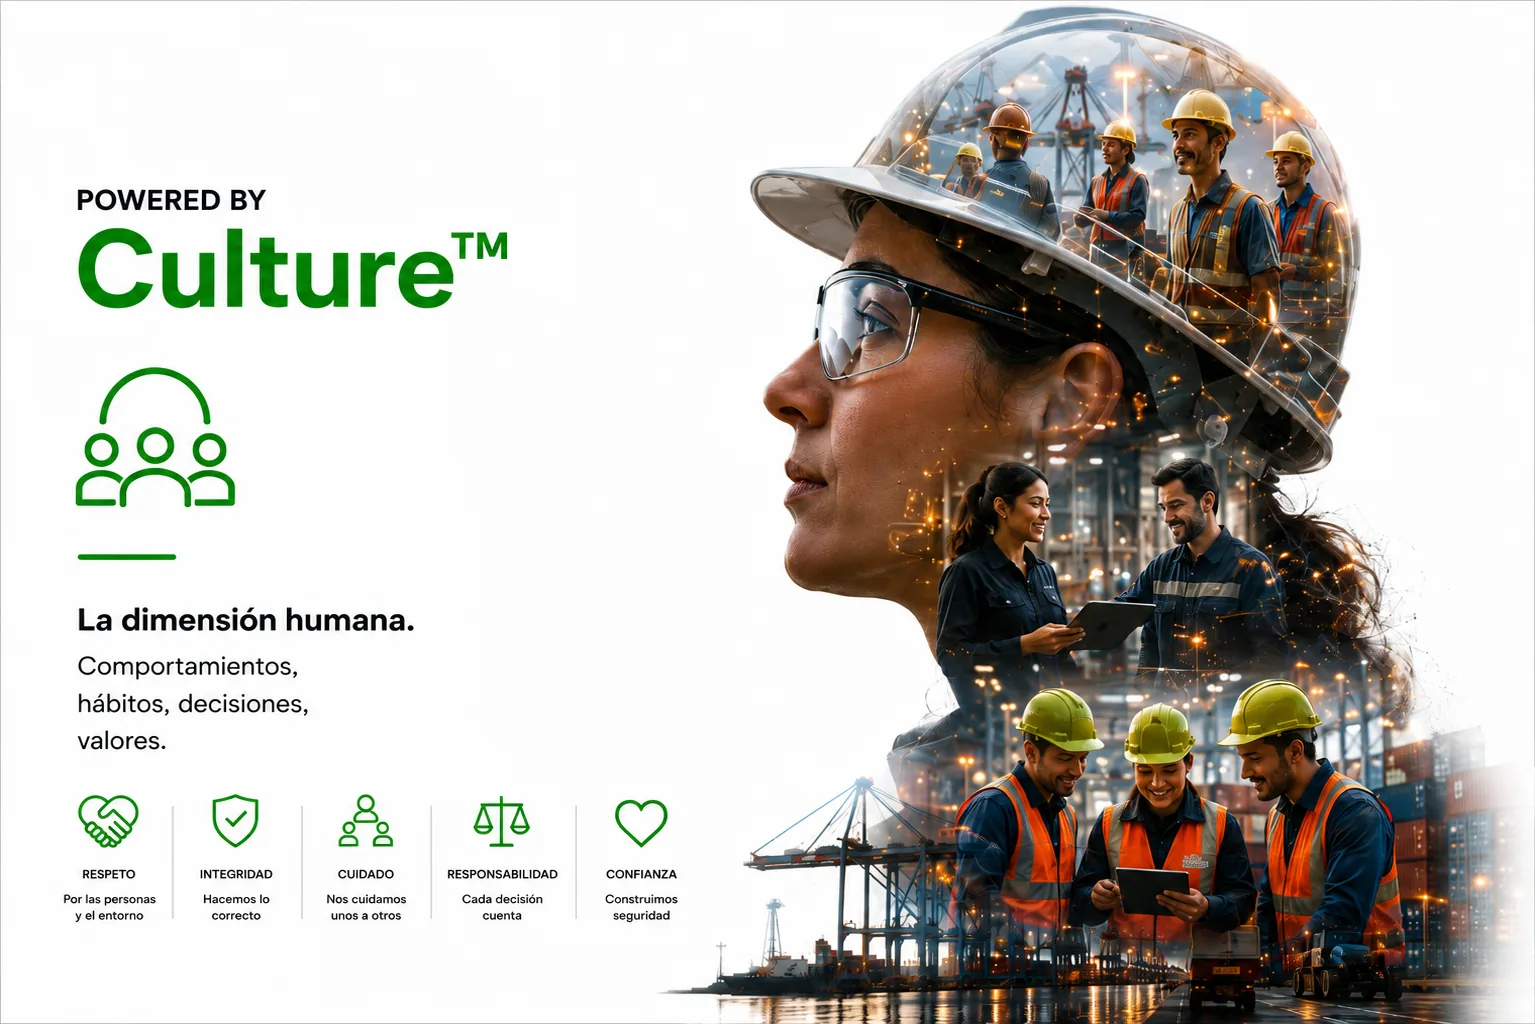
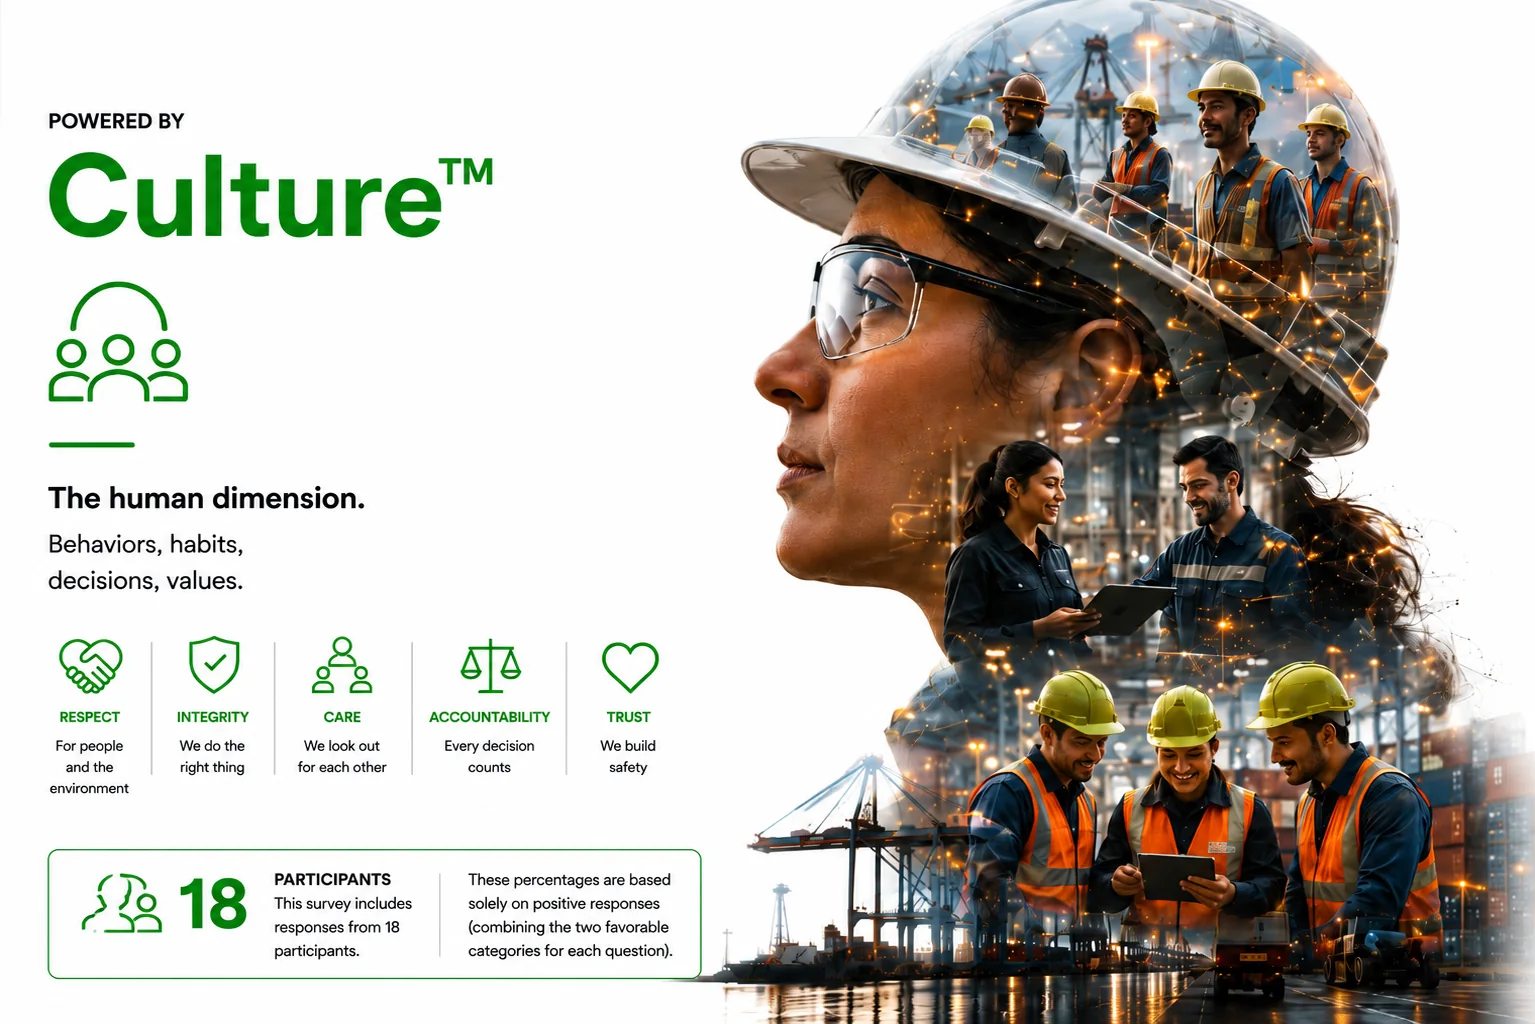
Add Culture and Prevent executive plate viewers

diff --git a/styles.css b/styles.css
@@ -2920,13 +2920,30 @@ img {
   margin-top: 24px;
 }
 
-.executive-dimension-line strong {
+.executive-dimension-line strong,
+.executive-dimension-line button {
   padding: 8px 11px;
   border: 1px solid rgba(255, 106, 19, 0.38);
   border-radius: 4px;
   color: #ffd0b5;
   background: rgba(255, 106, 19, 0.08);
   font-size: 0.72rem;
+  font-weight: 800;
+}
+
+.executive-dimension-line button {
+  cursor: pointer;
+  font-family: inherit;
+  transition: border-color 180ms ease, background 180ms ease, color 180ms ease, transform 180ms ease;
+}
+
+.executive-dimension-line button:hover,
+.executive-dimension-line button:focus-visible {
+  border-color: var(--orange);
+  color: #ffffff;
+  background: rgba(255, 106, 19, 0.2);
+  transform: translateY(-1px);
+  outline: none;
 }
 
 .executive-risk {
@@ -2984,7 +3001,8 @@ img {
   font-size: clamp(1.7rem, 2.7vw, 3rem);
 }
 
-.executive-dimension-line-light strong {
+.executive-dimension-line-light strong,
+.executive-dimension-line-light button {
   color: #fff;
   background: rgba(5, 13, 21, 0.58);
 }
@@ -3557,6 +3575,91 @@ img {
   line-height: 1.55;
 }
 
+.executive-plate-viewer {
+  width: min(96vw, 1600px);
+  max-width: none;
+  max-height: 94svh;
+  margin: auto;
+  padding: 0;
+  overflow: hidden;
+  border: 1px solid rgba(255, 255, 255, 0.18);
+  border-radius: 6px;
+  color: #ffffff;
+  background: #040f19;
+  box-shadow: 0 32px 100px rgba(0, 0, 0, 0.72);
+}
+
+.executive-plate-viewer::backdrop {
+  background: rgba(0, 7, 13, 0.9);
+  backdrop-filter: blur(8px);
+}
+
+.executive-plate-shell {
+  display: grid;
+  grid-template-rows: auto minmax(0, 1fr);
+  height: min(94svh, 1040px);
+}
+
+.executive-plate-shell header {
+  display: flex;
+  align-items: center;
+  justify-content: space-between;
+  gap: 24px;
+  min-height: 68px;
+  padding: 12px 18px 12px 22px;
+  border-bottom: 1px solid rgba(255, 255, 255, 0.12);
+}
+
+.executive-plate-shell header span {
+  color: var(--orange);
+  font-size: 0.65rem;
+  font-weight: 900;
+  text-transform: uppercase;
+}
+
+.executive-plate-shell h2 {
+  margin: 3px 0 0;
+  font-size: 1.15rem;
+}
+
+.executive-plate-shell header button {
+  min-width: 72px;
+  min-height: 38px;
+  border: 1px solid rgba(255, 255, 255, 0.18);
+  border-radius: 4px;
+  color: #ffffff;
+  background: rgba(255, 255, 255, 0.06);
+  font-family: inherit;
+  font-weight: 800;
+  cursor: pointer;
+}
+
+.executive-plate-shell header button:hover,
+.executive-plate-shell header button:focus-visible {
+  border-color: var(--orange);
+  background: rgba(255, 106, 19, 0.16);
+  outline: none;
+}
+
+.executive-plate-media {
+  position: relative;
+  display: grid;
+  min-height: 0;
+  overflow: hidden;
+  place-items: center;
+  background: #01080e;
+}
+
+.executive-plate-media img {
+  position: absolute;
+  inset: 0;
+  display: block;
+  width: 100%;
+  height: 100%;
+  max-width: none;
+  object-fit: contain;
+}
+
 .executive-dimension-drawer {
   position: absolute;
   z-index: 40;
@@ -3867,6 +3970,17 @@ img {
     height: 100svh;
     max-height: none;
     border-left: 0;
+  }
+
+  .executive-plate-viewer {
+    width: 100vw;
+    max-height: 100svh;
+    border: 0;
+    border-radius: 0;
+  }
+
+  .executive-plate-shell {
+    height: 100svh;
   }
 
   .executive-header {

diff --git a/script.js b/script.js
@@ -298,6 +298,17 @@ const executiveLoopStages = [
   }
 ];
 
+const executiveDimensionPlates = {
+  Culture: {
+    image: "assets/culture.webp",
+    alt: "Culture dimension overview: behaviors, values and human safety culture"
+  },
+  Prevent: {
+    image: "assets/prevent.webp",
+    alt: "Prevent dimension overview: anticipation, signals and preventive action"
+  }
+};
+
 const executiveCaseSteps = [
   {
     label: "Moment 01 · Signal",
@@ -384,6 +395,9 @@ const executiveNotes = document.querySelector("#executive-notes");
 const executiveNoteCopy = document.querySelector("#executive-note-copy");
 const executiveDimensionDrawer = document.querySelector("#executive-dimension-drawer");
 const executiveNetworkDrawer = document.querySelector("#executive-network-drawer");
+const executivePlateViewer = document.querySelector("#executive-plate-viewer");
+const executivePlateTitle = document.querySelector("#executive-plate-title");
+const executivePlateImage = document.querySelector("#executive-plate-image");
 const executivePilotStatus = document.querySelector("#executive-pilot-status");
 
 let activeIndex = -1;
@@ -393,6 +407,7 @@ let activeExecutiveLoopStage = 0;
 let activeExecutiveCaseStep = 0;
 let navMode = "dimensions";
 let isRouting = false;
+let executivePlateTrigger = null;
 let selectedLoginUser = "operario";
 
 const loginUsers = {
@@ -790,8 +805,41 @@ function setExecutiveLoopStage(index) {
   if (executiveLoopTitle) executiveLoopTitle.textContent = stage.title;
   if (executiveLoopCopy) executiveLoopCopy.textContent = stage.copy;
   if (executiveLoopDimensions) {
-    executiveLoopDimensions.innerHTML = stage.dimensions.map((dimension) => `<strong>${dimension}</strong>`).join("");
+    executiveLoopDimensions.innerHTML = stage.dimensions
+      .map((dimension) =>
+        executiveDimensionPlates[dimension]
+          ? `<button type="button" data-exec-plate="${dimension}" aria-label="Open ${dimension} dimension overview">${dimension}</button>`
+          : `<strong>${dimension}</strong>`
+      )
+      .join("");
   }
+}
+
+function openExecutivePlate(name, trigger) {
+  const plate = executiveDimensionPlates[name];
+  if (!plate || !executivePlateViewer || !executivePlateImage) return;
+
+  executivePlateTrigger = trigger || document.activeElement;
+  if (executivePlateTitle) executivePlateTitle.textContent = name;
+  executivePlateImage.src = plate.image;
+  executivePlateImage.alt = plate.alt;
+
+  if (typeof executivePlateViewer.showModal === "function") {
+    if (!executivePlateViewer.open) executivePlateViewer.showModal();
+  } else {
+    executivePlateViewer.setAttribute("open", "");
+  }
+}
+
+function closeExecutivePlate() {
+  if (!executivePlateViewer) return;
+  if (typeof executivePlateViewer.close === "function" && executivePlateViewer.open) {
+    executivePlateViewer.close();
+  } else {
+    executivePlateViewer.removeAttribute("open");
+  }
+  executivePlateTrigger?.focus?.();
+  executivePlateTrigger = null;
 }
 
 function setExecutiveCaseStep(index) {
@@ -909,6 +957,7 @@ function handleAction(action) {
   if (action === "exec-close-dimensions") toggleExecutiveDimensionDrawer(false);
   if (action === "exec-network") toggleExecutiveNetworkDrawer(true);
   if (action === "exec-close-network") toggleExecutiveNetworkDrawer(false);
+  if (action === "exec-close-plate") closeExecutivePlate();
   if (action === "exec-pilot") confirmExecutivePilot();
 }
 
@@ -1067,9 +1116,20 @@ function answerQuiz(result, button) {
 }
 
 document.addEventListener("click", (event) => {
+  if (event.target === executivePlateViewer) {
+    closeExecutivePlate();
+    return;
+  }
+
   const actionTarget = event.target.closest("[data-action]");
   if (actionTarget) {
     handleAction(actionTarget.dataset.action);
+    return;
+  }
+
+  const executivePlateTarget = event.target.closest("[data-exec-plate]");
+  if (executivePlateTarget) {
+    openExecutivePlate(executivePlateTarget.dataset.execPlate, executivePlateTarget);
     return;
   }
 
@@ -1148,6 +1208,14 @@ document.addEventListener("click", (event) => {
 
 document.addEventListener("keydown", (event) => {
   if (app.dataset.view === "executive") {
+    if (executivePlateViewer?.open) {
+      if (event.key === "Escape") {
+        event.preventDefault();
+        closeExecutivePlate();
+      }
+      return;
+    }
+
     if (event.key === "Escape") {
       if (executiveNetworkDrawer && !executiveNetworkDrawer.hidden) {
         toggleExecutiveNetworkDrawer(false);

diff --git a/index.html b/index.html
@@ -186,7 +186,8 @@
                       Make safe behavior visible and capture early risk signals before exposure escalates.
                     </p>
                     <div id="executive-loop-dimensions" class="executive-dimension-line">
-                      <strong>Culture</strong><strong>Prevent</strong>
+                      <button type="button" data-exec-plate="Culture">Culture</button>
+                      <button type="button" data-exec-plate="Prevent">Prevent</button>
                     </div>
                   </div>
                 </div>
@@ -325,6 +326,21 @@
               <span>Presenter note</span>
               <p id="executive-note-copy"></p>
             </aside>
+
+            <dialog class="executive-plate-viewer" id="executive-plate-viewer" aria-labelledby="executive-plate-title">
+              <div class="executive-plate-shell">
+                <header>
+                  <div>
+                    <span>HSSE Ecosystem dimension</span>
+                    <h2 id="executive-plate-title">Culture</h2>
+                  </div>
+                  <button type="button" data-action="exec-close-plate">Close</button>
+                </header>
+                <div class="executive-plate-media">
+                  <img id="executive-plate-image" src="assets/culture.webp" alt="Culture dimension overview" />
+                </div>
+              </div>
+            </dialog>
 
             <aside class="executive-dimension-drawer" id="executive-dimension-drawer" hidden>
               <header>